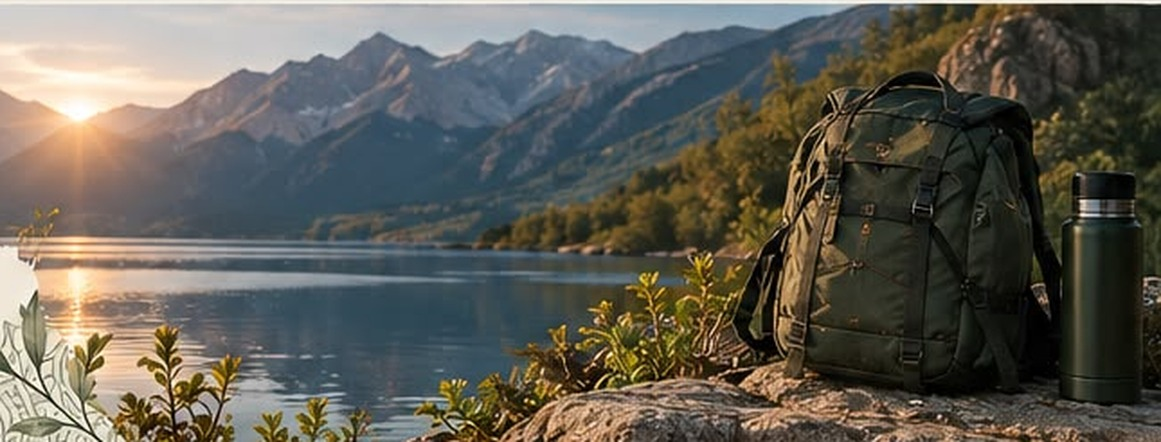
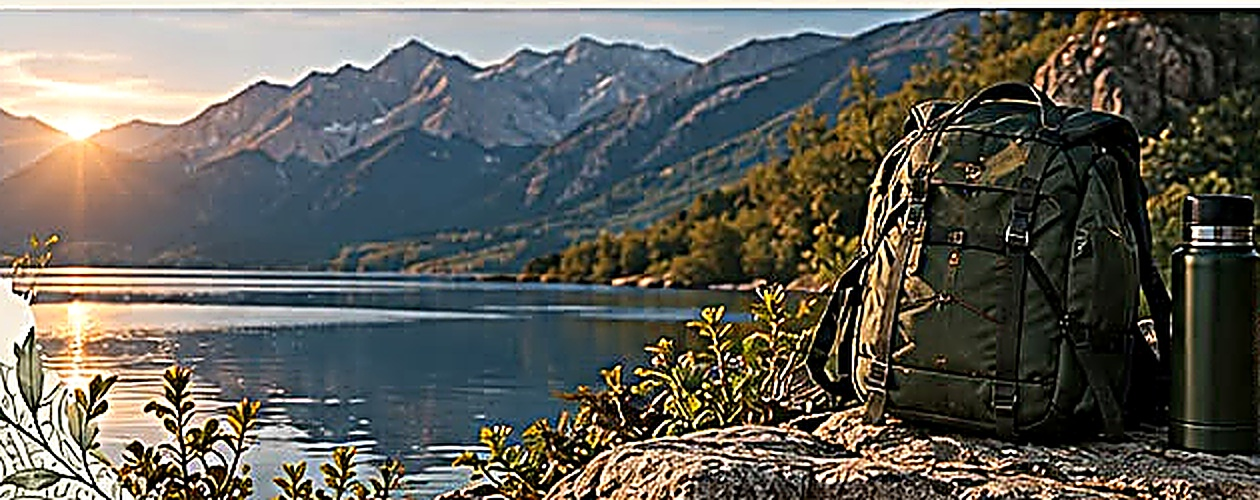
ims

diff --git a/app/page.tsx b/app/page.tsx
@@ -47,11 +47,13 @@ export default function HomePage() {
     <StoreLayout>
       {/* Hero */}
       <section className="relative overflow-hidden bg-grain">
-        <Mandala className="pointer-events-none absolute -left-32 bottom-[-8rem] h-72 w-72 text-brand-sage opacity-[0.14] hidden sm:block sm:h-96 sm:w-96 z-10" />
         <div className="grid lg:grid-cols-2 items-stretch">
           {/* Columna de texto */}
-          <div className="container mx-auto px-4 lg:pr-8 relative z-10">
-            <div className="text-center lg:text-left py-14 md:py-20">
+          <div className="order-2 lg:order-1 px-4 sm:px-6 lg:pl-12 xl:pl-20 lg:pr-10 relative z-10 overflow-hidden">
+            <Mandala className="pointer-events-none absolute right-0 sm:right-4 top-1/2 -translate-y-1/2 h-64 w-64 md:h-80 md:w-80 text-brand-clay opacity-[0.14]" />
+            <LeafScatter className="pointer-events-none absolute left-1 top-1 h-20 w-20 sm:h-32 sm:w-32 text-primary opacity-80" />
+            <Bloom className="pointer-events-none absolute left-2 bottom-6 h-14 w-14 sm:h-20 sm:w-20 text-brand-clay opacity-40" />
+            <div className="text-center lg:text-left py-14 md:py-20 relative">
               <p className="font-script text-xl md:text-2xl text-accent-ink">Todo lo que necesitás...</p>
               <h1 className="text-5xl md:text-7xl font-display font-bold tracking-tight text-primary drop-shadow-sm mt-1">
                 Todo y Más
@@ -76,8 +78,9 @@ export default function HomePage() {
             </div>
           </div>
 
-          {/* Columna de foto: paisaje + mochila/termo (los productos que la clienta pidió que se vean) */}
-          <div className="relative h-72 sm:h-96 lg:h-auto lg:min-h-[420px] overflow-hidden rounded-l-[3rem] lg:rounded-l-[4rem]">
+          {/* Columna de foto: paisaje + mochila/termo (los productos que la clienta pidió que se vean).
+              Va primero en mobile (order-1) para que no quede relegada al final del scroll. */}
+          <div className="order-1 lg:order-2 relative h-64 sm:h-96 lg:h-auto lg:min-h-[420px] overflow-hidden rounded-b-[2.5rem] lg:rounded-b-none lg:rounded-l-[4rem]">
             <img
               src="/images/hero-mochila.jpg"
               alt="Paisaje de montaña y lago con mochila y termo de camping"
@@ -90,9 +93,6 @@ export default function HomePage() {
             </p>
           </div>
         </div>
-        {/* Hojas que cruzan la costura entre el panel de texto y la foto */}
-        <LeafScatter className="pointer-events-none absolute -left-6 -top-6 h-28 w-28 text-primary opacity-70 sm:left-4 sm:top-4 sm:h-48 sm:w-48 z-10" />
-        <Bloom className="pointer-events-none absolute left-4 bottom-8 h-16 w-16 text-brand-clay opacity-40 sm:left-10 sm:bottom-14 sm:h-24 sm:w-24 z-10" />
       </section>
 
       {/* Features bar */}
